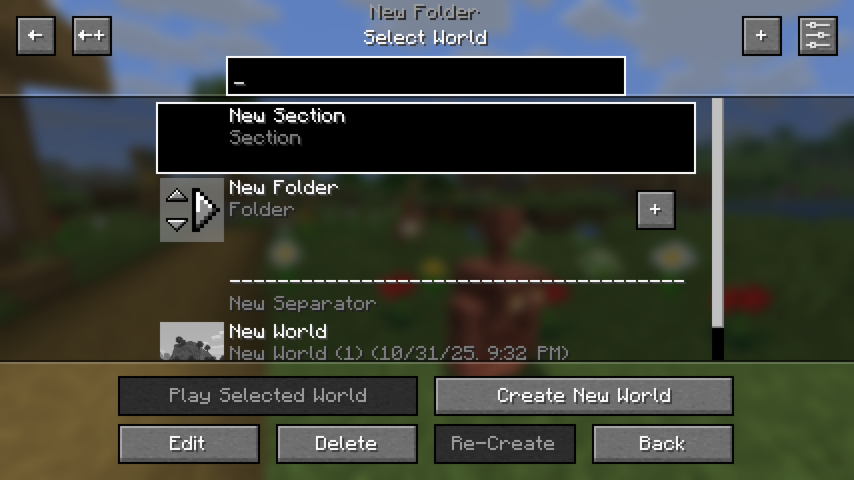
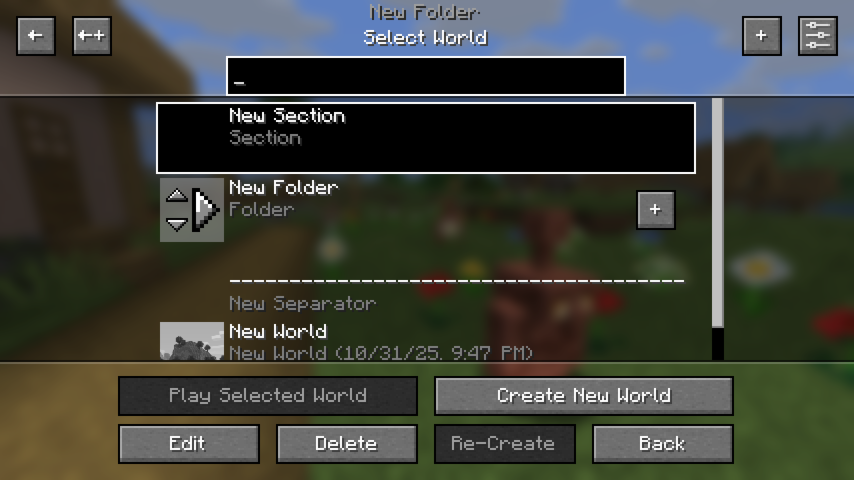
Disable rotating panorama for client game tests

diff --git a/src/gametest/java/com/kevinthegreat/organizableplayscreens/mixin/ScreenMixin.java b/src/gametest/java/com/kevinthegreat/organizableplayscreens/mixin/ScreenMixin.java
@@ -1,0 +1,14 @@
+package com.kevinthegreat.organizableplayscreens.mixin;
+
+import com.llamalad7.mixinextras.injector.ModifyReturnValue;
+import net.minecraft.client.gui.screen.Screen;
+import org.spongepowered.asm.mixin.Mixin;
+import org.spongepowered.asm.mixin.injection.At;
+
+@Mixin(Screen.class)
+public class ScreenMixin {
+    @ModifyReturnValue(method = "allowRotatingPanorama", at = @At("RETURN"))
+    private boolean disableRotatingPanoramaForClientGameTests(boolean original) {
+        return false;
+    }
+}
